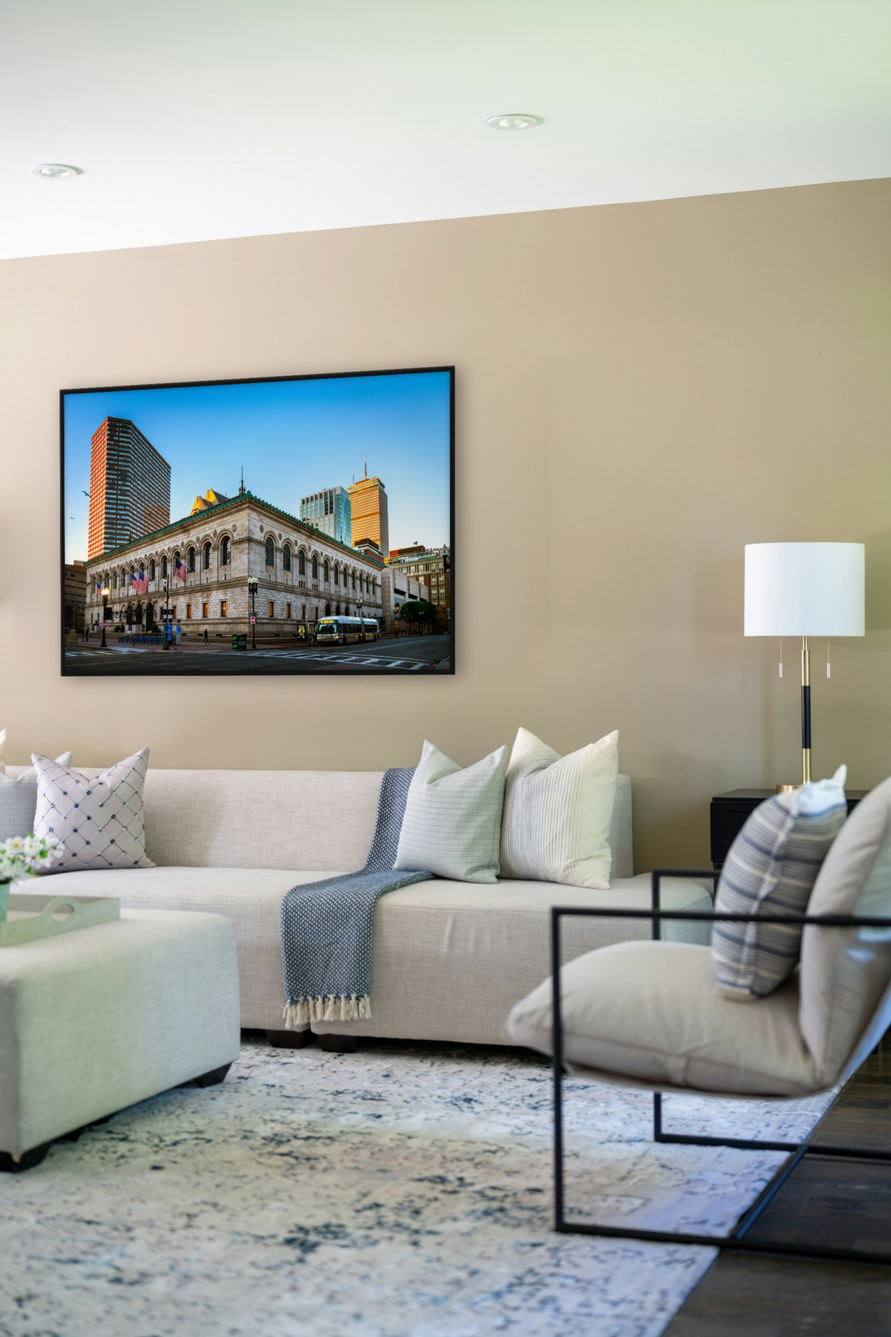
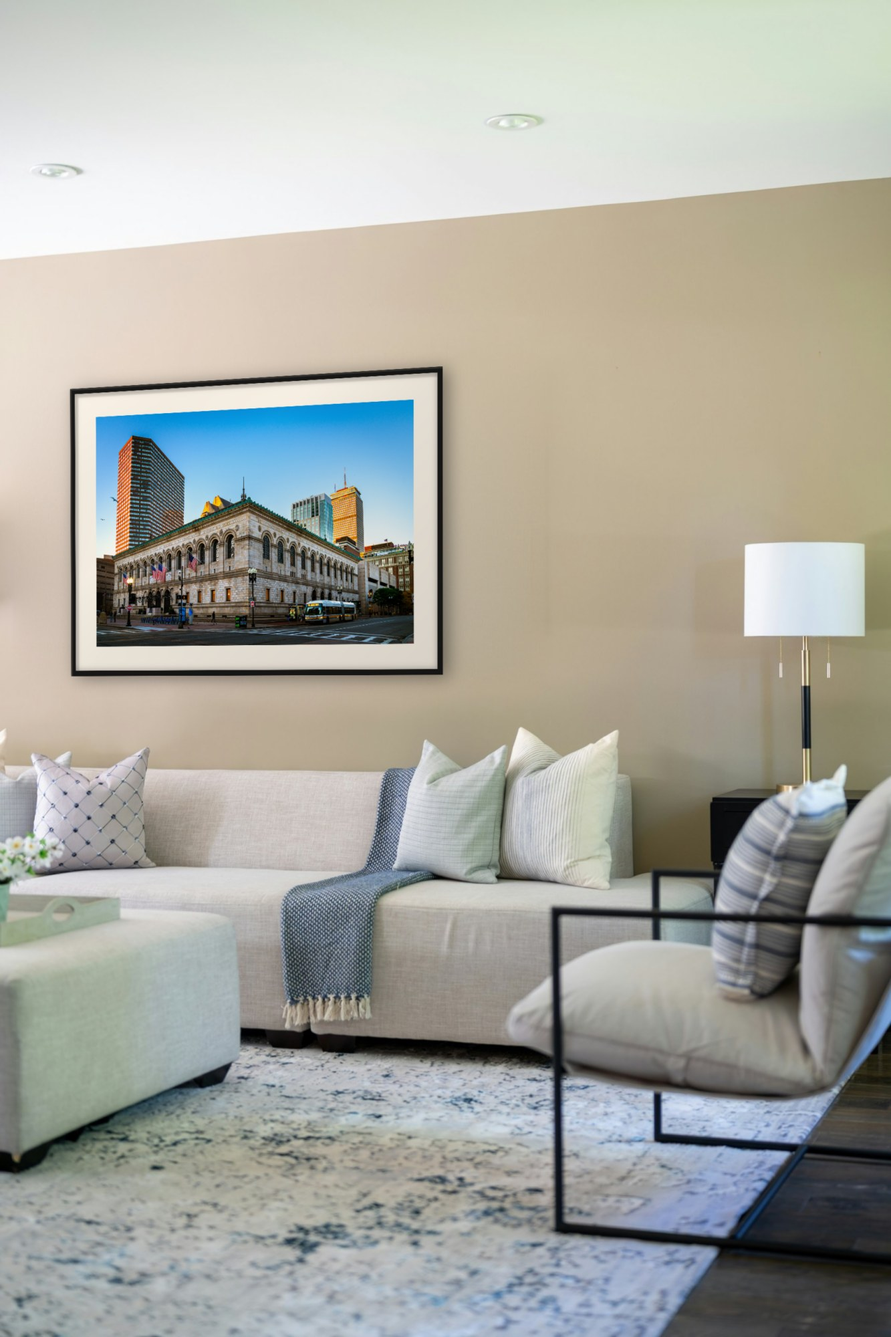
Room views: every framed view gets a white mat
Claude-Session: https://claude.ai/code/session_01MbwgoxaybNPLp1fp55gF6K

Changed region(s): [[0.0615, 0.248, 0.5229, 0.527]]

diff --git a/transient-serenity.html b/transient-serenity.html
@@ -28,7 +28,7 @@
   <div class="product-layout">
     <div class="product-gallery" style="--stage: 0.667">
       <figure class="zoom pg-main"><img src="images/DSC05015.jpg" alt="Transient Serenity — flowers on a wet sidewalk, Back Bay, Boston" srcset="images/sm/DSC05015.jpg 1200w, images/DSC05015.jpg 1706w" sizes="(max-width: 900px) 92vw, 46vw" decoding="async"></figure>
-      <div class="pg-thumbs" aria-label="More views"><button type="button" class="pg-thumb active" data-src="images/DSC05015.jpg" data-srcset="images/sm/DSC05015.jpg 1200w, images/DSC05015.jpg 1706w" aria-label="The print" aria-current="true"><img src="images/sm/DSC05015.jpg" alt="Transient Serenity — flowers on a wet sidewalk, Back Bay, Boston" decoding="async"></button><button type="button" class="pg-thumb" data-material="Canvas Print" data-src="images/mockups/transient-serenity-canvas-1.jpg?v=2" data-srcset="images/mockups/sm/transient-serenity-canvas-1.jpg?v=2 667w, images/mockups/transient-serenity-canvas-1.jpg?v=2 1333w" aria-label="Canvas — In a living room"><img src="images/mockups/sm/transient-serenity-canvas-1.jpg?v=2" alt="Transient Serenity — flowers on a wet sidewalk, Back Bay, Boston — canvas in a living room" decoding="async" loading="lazy"></button><button type="button" class="pg-thumb" data-material="Canvas Print" data-src="images/mockups/transient-serenity-canvas-2.jpg?v=2" data-srcset="images/mockups/sm/transient-serenity-canvas-2.jpg?v=2 1000w, images/mockups/transient-serenity-canvas-2.jpg?v=2 2000w" aria-label="Canvas — By a reading chair"><img src="images/mockups/sm/transient-serenity-canvas-2.jpg?v=2" alt="Transient Serenity — flowers on a wet sidewalk, Back Bay, Boston — canvas by a reading chair" decoding="async" loading="lazy"></button><button type="button" class="pg-thumb" data-material="Canvas Print" data-src="images/mockups/transient-serenity-canvas-3.jpg?v=2" data-srcset="images/mockups/sm/transient-serenity-canvas-3.jpg?v=2 667w, images/mockups/transient-serenity-canvas-3.jpg?v=2 1333w" aria-label="Canvas — Above a sofa"><img src="images/mockups/sm/transient-serenity-canvas-3.jpg?v=2" alt="Transient Serenity — flowers on a wet sidewalk, Back Bay, Boston — canvas above a sofa" decoding="async" loading="lazy"></button><button type="button" class="pg-thumb" data-material="Canvas Print" data-src="images/mockups/transient-serenity-canvas-4.jpg?v=2" data-srcset="images/mockups/sm/transient-serenity-canvas-4.jpg?v=2 667w, images/mockups/transient-serenity-canvas-4.jpg?v=2 1333w" aria-label="Canvas — On a bare wall"><img src="images/mockups/sm/transient-serenity-canvas-4.jpg?v=2" alt="Transient Serenity — flowers on a wet sidewalk, Back Bay, Boston — canvas on a bare wall" decoding="async" loading="lazy"></button><button type="button" class="pg-thumb" data-material="Framed Print" data-src="images/mockups/transient-serenity-1.jpg?v=2" data-srcset="images/mockups/sm/transient-serenity-1.jpg?v=2 667w, images/mockups/transient-serenity-1.jpg?v=2 1333w" aria-label="Framed — In a living room"><img src="images/mockups/sm/transient-serenity-1.jpg?v=2" alt="Transient Serenity — flowers on a wet sidewalk, Back Bay, Boston — in a living room" decoding="async" loading="lazy"></button><button type="button" class="pg-thumb" data-material="Framed Print" data-src="images/mockups/transient-serenity-2.jpg?v=2" data-srcset="images/mockups/sm/transient-serenity-2.jpg?v=2 1000w, images/mockups/transient-serenity-2.jpg?v=2 2000w" aria-label="Framed — By a reading chair"><img src="images/mockups/sm/transient-serenity-2.jpg?v=2" alt="Transient Serenity — flowers on a wet sidewalk, Back Bay, Boston — by a reading chair" decoding="async" loading="lazy"></button><button type="button" class="pg-thumb" data-material="Framed Print" data-src="images/mockups/transient-serenity-3.jpg?v=2" data-srcset="images/mockups/sm/transient-serenity-3.jpg?v=2 667w, images/mockups/transient-serenity-3.jpg?v=2 1333w" aria-label="Framed — Above a sofa"><img src="images/mockups/sm/transient-serenity-3.jpg?v=2" alt="Transient Serenity — flowers on a wet sidewalk, Back Bay, Boston — above a sofa" decoding="async" loading="lazy"></button><button type="button" class="pg-thumb" data-material="Framed Print" data-src="images/mockups/transient-serenity-4.jpg?v=2" data-srcset="images/mockups/sm/transient-serenity-4.jpg?v=2 667w, images/mockups/transient-serenity-4.jpg?v=2 1333w" aria-label="Framed — On a bare wall"><img src="images/mockups/sm/transient-serenity-4.jpg?v=2" alt="Transient Serenity — flowers on a wet sidewalk, Back Bay, Boston — on a bare wall" decoding="async" loading="lazy"></button></div>
+      <div class="pg-thumbs" aria-label="More views"><button type="button" class="pg-thumb active" data-src="images/DSC05015.jpg" data-srcset="images/sm/DSC05015.jpg 1200w, images/DSC05015.jpg 1706w" aria-label="The print" aria-current="true"><img src="images/sm/DSC05015.jpg" alt="Transient Serenity — flowers on a wet sidewalk, Back Bay, Boston" decoding="async"></button><button type="button" class="pg-thumb" data-material="Canvas Print" data-src="images/mockups/transient-serenity-canvas-1.jpg?v=2" data-srcset="images/mockups/sm/transient-serenity-canvas-1.jpg?v=2 667w, images/mockups/transient-serenity-canvas-1.jpg?v=2 1333w" aria-label="Canvas — In a living room"><img src="images/mockups/sm/transient-serenity-canvas-1.jpg?v=2" alt="Transient Serenity — flowers on a wet sidewalk, Back Bay, Boston — canvas in a living room" decoding="async" loading="lazy"></button><button type="button" class="pg-thumb" data-material="Canvas Print" data-src="images/mockups/transient-serenity-canvas-2.jpg?v=2" data-srcset="images/mockups/sm/transient-serenity-canvas-2.jpg?v=2 1000w, images/mockups/transient-serenity-canvas-2.jpg?v=2 2000w" aria-label="Canvas — By a reading chair"><img src="images/mockups/sm/transient-serenity-canvas-2.jpg?v=2" alt="Transient Serenity — flowers on a wet sidewalk, Back Bay, Boston — canvas by a reading chair" decoding="async" loading="lazy"></button><button type="button" class="pg-thumb" data-material="Canvas Print" data-src="images/mockups/transient-serenity-canvas-3.jpg?v=2" data-srcset="images/mockups/sm/transient-serenity-canvas-3.jpg?v=2 667w, images/mockups/transient-serenity-canvas-3.jpg?v=2 1333w" aria-label="Canvas — Above a sofa"><img src="images/mockups/sm/transient-serenity-canvas-3.jpg?v=2" alt="Transient Serenity — flowers on a wet sidewalk, Back Bay, Boston — canvas above a sofa" decoding="async" loading="lazy"></button><button type="button" class="pg-thumb" data-material="Canvas Print" data-src="images/mockups/transient-serenity-canvas-4.jpg?v=2" data-srcset="images/mockups/sm/transient-serenity-canvas-4.jpg?v=2 667w, images/mockups/transient-serenity-canvas-4.jpg?v=2 1333w" aria-label="Canvas — On a bare wall"><img src="images/mockups/sm/transient-serenity-canvas-4.jpg?v=2" alt="Transient Serenity — flowers on a wet sidewalk, Back Bay, Boston — canvas on a bare wall" decoding="async" loading="lazy"></button><button type="button" class="pg-thumb" data-material="Framed Print" data-src="images/mockups/transient-serenity-1.jpg?v=3" data-srcset="images/mockups/sm/transient-serenity-1.jpg?v=3 667w, images/mockups/transient-serenity-1.jpg?v=3 1333w" aria-label="Framed — In a living room"><img src="images/mockups/sm/transient-serenity-1.jpg?v=3" alt="Transient Serenity — flowers on a wet sidewalk, Back Bay, Boston — in a living room" decoding="async" loading="lazy"></button><button type="button" class="pg-thumb" data-material="Framed Print" data-src="images/mockups/transient-serenity-2.jpg?v=3" data-srcset="images/mockups/sm/transient-serenity-2.jpg?v=3 1000w, images/mockups/transient-serenity-2.jpg?v=3 2000w" aria-label="Framed — By a reading chair"><img src="images/mockups/sm/transient-serenity-2.jpg?v=3" alt="Transient Serenity — flowers on a wet sidewalk, Back Bay, Boston — by a reading chair" decoding="async" loading="lazy"></button><button type="button" class="pg-thumb" data-material="Framed Print" data-src="images/mockups/transient-serenity-3.jpg?v=3" data-srcset="images/mockups/sm/transient-serenity-3.jpg?v=3 667w, images/mockups/transient-serenity-3.jpg?v=3 1333w" aria-label="Framed — Above a sofa"><img src="images/mockups/sm/transient-serenity-3.jpg?v=3" alt="Transient Serenity — flowers on a wet sidewalk, Back Bay, Boston — above a sofa" decoding="async" loading="lazy"></button><button type="button" class="pg-thumb" data-material="Framed Print" data-src="images/mockups/transient-serenity-4.jpg?v=3" data-srcset="images/mockups/sm/transient-serenity-4.jpg?v=3 667w, images/mockups/transient-serenity-4.jpg?v=3 1333w" aria-label="Framed — On a bare wall"><img src="images/mockups/sm/transient-serenity-4.jpg?v=3" alt="Transient Serenity — flowers on a wet sidewalk, Back Bay, Boston — on a bare wall" decoding="async" loading="lazy"></button></div>
     </div>
     <div class="product-info" data-handle="transient-serenity">
       <div class="product-text">

diff --git a/boston-public-library.html b/boston-public-library.html
@@ -28,7 +28,7 @@
   <div class="product-layout wide">
     <div class="product-gallery">
       <figure class="zoom pg-main"><img src="images/DSC05012.jpg" alt="Boston Public Library at dawn, Copley Square" srcset="images/sm/DSC05012.jpg 1200w, images/DSC05012.jpg 2560w" sizes="92vw" decoding="async"></figure>
-      <div class="pg-thumbs" aria-label="More views"><button type="button" class="pg-thumb active" data-src="images/DSC05012.jpg" data-srcset="images/sm/DSC05012.jpg 1200w, images/DSC05012.jpg 2560w" aria-label="The print" aria-current="true"><img src="images/sm/DSC05012.jpg" alt="Boston Public Library at dawn, Copley Square" decoding="async"></button><button type="button" class="pg-thumb" data-material="Canvas Print" data-src="images/mockups/boston-public-library-canvas-1.jpg?v=2" data-srcset="images/mockups/sm/boston-public-library-canvas-1.jpg?v=2 667w, images/mockups/boston-public-library-canvas-1.jpg?v=2 1333w" aria-label="Canvas — In a living room"><img src="images/mockups/sm/boston-public-library-canvas-1.jpg?v=2" alt="Boston Public Library at dawn, Copley Square — canvas in a living room" decoding="async" loading="lazy"></button><button type="button" class="pg-thumb" data-material="Canvas Print" data-src="images/mockups/boston-public-library-canvas-2.jpg?v=2" data-srcset="images/mockups/sm/boston-public-library-canvas-2.jpg?v=2 1000w, images/mockups/boston-public-library-canvas-2.jpg?v=2 2000w" aria-label="Canvas — By a reading chair"><img src="images/mockups/sm/boston-public-library-canvas-2.jpg?v=2" alt="Boston Public Library at dawn, Copley Square — canvas by a reading chair" decoding="async" loading="lazy"></button><button type="button" class="pg-thumb" data-material="Canvas Print" data-src="images/mockups/boston-public-library-canvas-3.jpg?v=2" data-srcset="images/mockups/sm/boston-public-library-canvas-3.jpg?v=2 667w, images/mockups/boston-public-library-canvas-3.jpg?v=2 1333w" aria-label="Canvas — Above a sofa"><img src="images/mockups/sm/boston-public-library-canvas-3.jpg?v=2" alt="Boston Public Library at dawn, Copley Square — canvas above a sofa" decoding="async" loading="lazy"></button><button type="button" class="pg-thumb" data-material="Canvas Print" data-src="images/mockups/boston-public-library-canvas-4.jpg?v=2" data-srcset="images/mockups/sm/boston-public-library-canvas-4.jpg?v=2 667w, images/mockups/boston-public-library-canvas-4.jpg?v=2 1333w" aria-label="Canvas — On a bare wall"><img src="images/mockups/sm/boston-public-library-canvas-4.jpg?v=2" alt="Boston Public Library at dawn, Copley Square — canvas on a bare wall" decoding="async" loading="lazy"></button><button type="button" class="pg-thumb" data-material="Framed Print" data-src="images/mockups/boston-public-library-1.jpg?v=2" data-srcset="images/mockups/sm/boston-public-library-1.jpg?v=2 667w, images/mockups/boston-public-library-1.jpg?v=2 1333w" aria-label="Framed — In a living room"><img src="images/mockups/sm/boston-public-library-1.jpg?v=2" alt="Boston Public Library at dawn, Copley Square — in a living room" decoding="async" loading="lazy"></button><button type="button" class="pg-thumb" data-material="Framed Print" data-src="images/mockups/boston-public-library-2.jpg?v=2" data-srcset="images/mockups/sm/boston-public-library-2.jpg?v=2 1000w, images/mockups/boston-public-library-2.jpg?v=2 2000w" aria-label="Framed — By a reading chair"><img src="images/mockups/sm/boston-public-library-2.jpg?v=2" alt="Boston Public Library at dawn, Copley Square — by a reading chair" decoding="async" loading="lazy"></button><button type="button" class="pg-thumb" data-material="Framed Print" data-src="images/mockups/boston-public-library-3.jpg?v=2" data-srcset="images/mockups/sm/boston-public-library-3.jpg?v=2 667w, images/mockups/boston-public-library-3.jpg?v=2 1333w" aria-label="Framed — Above a sofa"><img src="images/mockups/sm/boston-public-library-3.jpg?v=2" alt="Boston Public Library at dawn, Copley Square — above a sofa" decoding="async" loading="lazy"></button><button type="button" class="pg-thumb" data-material="Framed Print" data-src="images/mockups/boston-public-library-4.jpg?v=2" data-srcset="images/mockups/sm/boston-public-library-4.jpg?v=2 667w, images/mockups/boston-public-library-4.jpg?v=2 1333w" aria-label="Framed — On a bare wall"><img src="images/mockups/sm/boston-public-library-4.jpg?v=2" alt="Boston Public Library at dawn, Copley Square — on a bare wall" decoding="async" loading="lazy"></button></div>
+      <div class="pg-thumbs" aria-label="More views"><button type="button" class="pg-thumb active" data-src="images/DSC05012.jpg" data-srcset="images/sm/DSC05012.jpg 1200w, images/DSC05012.jpg 2560w" aria-label="The print" aria-current="true"><img src="images/sm/DSC05012.jpg" alt="Boston Public Library at dawn, Copley Square" decoding="async"></button><button type="button" class="pg-thumb" data-material="Canvas Print" data-src="images/mockups/boston-public-library-canvas-1.jpg?v=2" data-srcset="images/mockups/sm/boston-public-library-canvas-1.jpg?v=2 667w, images/mockups/boston-public-library-canvas-1.jpg?v=2 1333w" aria-label="Canvas — In a living room"><img src="images/mockups/sm/boston-public-library-canvas-1.jpg?v=2" alt="Boston Public Library at dawn, Copley Square — canvas in a living room" decoding="async" loading="lazy"></button><button type="button" class="pg-thumb" data-material="Canvas Print" data-src="images/mockups/boston-public-library-canvas-2.jpg?v=2" data-srcset="images/mockups/sm/boston-public-library-canvas-2.jpg?v=2 1000w, images/mockups/boston-public-library-canvas-2.jpg?v=2 2000w" aria-label="Canvas — By a reading chair"><img src="images/mockups/sm/boston-public-library-canvas-2.jpg?v=2" alt="Boston Public Library at dawn, Copley Square — canvas by a reading chair" decoding="async" loading="lazy"></button><button type="button" class="pg-thumb" data-material="Canvas Print" data-src="images/mockups/boston-public-library-canvas-3.jpg?v=2" data-srcset="images/mockups/sm/boston-public-library-canvas-3.jpg?v=2 667w, images/mockups/boston-public-library-canvas-3.jpg?v=2 1333w" aria-label="Canvas — Above a sofa"><img src="images/mockups/sm/boston-public-library-canvas-3.jpg?v=2" alt="Boston Public Library at dawn, Copley Square — canvas above a sofa" decoding="async" loading="lazy"></button><button type="button" class="pg-thumb" data-material="Canvas Print" data-src="images/mockups/boston-public-library-canvas-4.jpg?v=2" data-srcset="images/mockups/sm/boston-public-library-canvas-4.jpg?v=2 667w, images/mockups/boston-public-library-canvas-4.jpg?v=2 1333w" aria-label="Canvas — On a bare wall"><img src="images/mockups/sm/boston-public-library-canvas-4.jpg?v=2" alt="Boston Public Library at dawn, Copley Square — canvas on a bare wall" decoding="async" loading="lazy"></button><button type="button" class="pg-thumb" data-material="Framed Print" data-src="images/mockups/boston-public-library-1.jpg?v=3" data-srcset="images/mockups/sm/boston-public-library-1.jpg?v=3 667w, images/mockups/boston-public-library-1.jpg?v=3 1333w" aria-label="Framed — In a living room"><img src="images/mockups/sm/boston-public-library-1.jpg?v=3" alt="Boston Public Library at dawn, Copley Square — in a living room" decoding="async" loading="lazy"></button><button type="button" class="pg-thumb" data-material="Framed Print" data-src="images/mockups/boston-public-library-2.jpg?v=3" data-srcset="images/mockups/sm/boston-public-library-2.jpg?v=3 1000w, images/mockups/boston-public-library-2.jpg?v=3 2000w" aria-label="Framed — By a reading chair"><img src="images/mockups/sm/boston-public-library-2.jpg?v=3" alt="Boston Public Library at dawn, Copley Square — by a reading chair" decoding="async" loading="lazy"></button><button type="button" class="pg-thumb" data-material="Framed Print" data-src="images/mockups/boston-public-library-3.jpg?v=3" data-srcset="images/mockups/sm/boston-public-library-3.jpg?v=3 667w, images/mockups/boston-public-library-3.jpg?v=3 1333w" aria-label="Framed — Above a sofa"><img src="images/mockups/sm/boston-public-library-3.jpg?v=3" alt="Boston Public Library at dawn, Copley Square — above a sofa" decoding="async" loading="lazy"></button><button type="button" class="pg-thumb" data-material="Framed Print" data-src="images/mockups/boston-public-library-4.jpg?v=3" data-srcset="images/mockups/sm/boston-public-library-4.jpg?v=3 667w, images/mockups/boston-public-library-4.jpg?v=3 1333w" aria-label="Framed — On a bare wall"><img src="images/mockups/sm/boston-public-library-4.jpg?v=3" alt="Boston Public Library at dawn, Copley Square — on a bare wall" decoding="async" loading="lazy"></button></div>
     </div>
     <div class="product-info" data-handle="boston-public-library">
       <div class="product-text">

diff --git a/tow-zone.html b/tow-zone.html
@@ -28,7 +28,7 @@
   <div class="product-layout">
     <div class="product-gallery" style="--stage: 0.667">
       <figure class="zoom pg-main"><img src="images/tow-zone.jpg?v=2" alt="Tow Zone — a pigeon landing at a bird feeder on a Boston street sign" srcset="images/sm/tow-zone.jpg?v=2 1200w, images/tow-zone.jpg?v=2 1707w" sizes="(max-width: 900px) 92vw, 46vw" decoding="async"></figure>
-      <div class="pg-thumbs" aria-label="More views"><button type="button" class="pg-thumb active" data-src="images/tow-zone.jpg?v=2" data-srcset="images/sm/tow-zone.jpg?v=2 1200w, images/tow-zone.jpg?v=2 1707w" aria-label="The print" aria-current="true"><img src="images/sm/tow-zone.jpg?v=2" alt="Tow Zone — a pigeon landing at a bird feeder on a Boston street sign" decoding="async"></button><button type="button" class="pg-thumb" data-material="Canvas Print" data-src="images/mockups/tow-zone-canvas-1.jpg?v=2" data-srcset="images/mockups/sm/tow-zone-canvas-1.jpg?v=2 667w, images/mockups/tow-zone-canvas-1.jpg?v=2 1333w" aria-label="Canvas — In a living room"><img src="images/mockups/sm/tow-zone-canvas-1.jpg?v=2" alt="Tow Zone — a pigeon landing at a bird feeder on a Boston street sign — canvas in a living room" decoding="async" loading="lazy"></button><button type="button" class="pg-thumb" data-material="Canvas Print" data-src="images/mockups/tow-zone-canvas-2.jpg?v=2" data-srcset="images/mockups/sm/tow-zone-canvas-2.jpg?v=2 1000w, images/mockups/tow-zone-canvas-2.jpg?v=2 2000w" aria-label="Canvas — By a reading chair"><img src="images/mockups/sm/tow-zone-canvas-2.jpg?v=2" alt="Tow Zone — a pigeon landing at a bird feeder on a Boston street sign — canvas by a reading chair" decoding="async" loading="lazy"></button><button type="button" class="pg-thumb" data-material="Canvas Print" data-src="images/mockups/tow-zone-canvas-3.jpg?v=2" data-srcset="images/mockups/sm/tow-zone-canvas-3.jpg?v=2 667w, images/mockups/tow-zone-canvas-3.jpg?v=2 1333w" aria-label="Canvas — Above a sofa"><img src="images/mockups/sm/tow-zone-canvas-3.jpg?v=2" alt="Tow Zone — a pigeon landing at a bird feeder on a Boston street sign — canvas above a sofa" decoding="async" loading="lazy"></button><button type="button" class="pg-thumb" data-material="Canvas Print" data-src="images/mockups/tow-zone-canvas-4.jpg?v=2" data-srcset="images/mockups/sm/tow-zone-canvas-4.jpg?v=2 667w, images/mockups/tow-zone-canvas-4.jpg?v=2 1333w" aria-label="Canvas — On a bare wall"><img src="images/mockups/sm/tow-zone-canvas-4.jpg?v=2" alt="Tow Zone — a pigeon landing at a bird feeder on a Boston street sign — canvas on a bare wall" decoding="async" loading="lazy"></button><button type="button" class="pg-thumb" data-material="Framed Print" data-src="images/mockups/tow-zone-1.jpg?v=2" data-srcset="images/mockups/sm/tow-zone-1.jpg?v=2 667w, images/mockups/tow-zone-1.jpg?v=2 1333w" aria-label="Framed — In a living room"><img src="images/mockups/sm/tow-zone-1.jpg?v=2" alt="Tow Zone — a pigeon landing at a bird feeder on a Boston street sign — in a living room" decoding="async" loading="lazy"></button><button type="button" class="pg-thumb" data-material="Framed Print" data-src="images/mockups/tow-zone-2.jpg?v=2" data-srcset="images/mockups/sm/tow-zone-2.jpg?v=2 1000w, images/mockups/tow-zone-2.jpg?v=2 2000w" aria-label="Framed — By a reading chair"><img src="images/mockups/sm/tow-zone-2.jpg?v=2" alt="Tow Zone — a pigeon landing at a bird feeder on a Boston street sign — by a reading chair" decoding="async" loading="lazy"></button><button type="button" class="pg-thumb" data-material="Framed Print" data-src="images/mockups/tow-zone-3.jpg?v=2" data-srcset="images/mockups/sm/tow-zone-3.jpg?v=2 667w, images/mockups/tow-zone-3.jpg?v=2 1333w" aria-label="Framed — Above a sofa"><img src="images/mockups/sm/tow-zone-3.jpg?v=2" alt="Tow Zone — a pigeon landing at a bird feeder on a Boston street sign — above a sofa" decoding="async" loading="lazy"></button><button type="button" class="pg-thumb" data-material="Framed Print" data-src="images/mockups/tow-zone-4.jpg?v=2" data-srcset="images/mockups/sm/tow-zone-4.jpg?v=2 667w, images/mockups/tow-zone-4.jpg?v=2 1333w" aria-label="Framed — On a bare wall"><img src="images/mockups/sm/tow-zone-4.jpg?v=2" alt="Tow Zone — a pigeon landing at a bird feeder on a Boston street sign — on a bare wall" decoding="async" loading="lazy"></button></div>
+      <div class="pg-thumbs" aria-label="More views"><button type="button" class="pg-thumb active" data-src="images/tow-zone.jpg?v=2" data-srcset="images/sm/tow-zone.jpg?v=2 1200w, images/tow-zone.jpg?v=2 1707w" aria-label="The print" aria-current="true"><img src="images/sm/tow-zone.jpg?v=2" alt="Tow Zone — a pigeon landing at a bird feeder on a Boston street sign" decoding="async"></button><button type="button" class="pg-thumb" data-material="Canvas Print" data-src="images/mockups/tow-zone-canvas-1.jpg?v=2" data-srcset="images/mockups/sm/tow-zone-canvas-1.jpg?v=2 667w, images/mockups/tow-zone-canvas-1.jpg?v=2 1333w" aria-label="Canvas — In a living room"><img src="images/mockups/sm/tow-zone-canvas-1.jpg?v=2" alt="Tow Zone — a pigeon landing at a bird feeder on a Boston street sign — canvas in a living room" decoding="async" loading="lazy"></button><button type="button" class="pg-thumb" data-material="Canvas Print" data-src="images/mockups/tow-zone-canvas-2.jpg?v=2" data-srcset="images/mockups/sm/tow-zone-canvas-2.jpg?v=2 1000w, images/mockups/tow-zone-canvas-2.jpg?v=2 2000w" aria-label="Canvas — By a reading chair"><img src="images/mockups/sm/tow-zone-canvas-2.jpg?v=2" alt="Tow Zone — a pigeon landing at a bird feeder on a Boston street sign — canvas by a reading chair" decoding="async" loading="lazy"></button><button type="button" class="pg-thumb" data-material="Canvas Print" data-src="images/mockups/tow-zone-canvas-3.jpg?v=2" data-srcset="images/mockups/sm/tow-zone-canvas-3.jpg?v=2 667w, images/mockups/tow-zone-canvas-3.jpg?v=2 1333w" aria-label="Canvas — Above a sofa"><img src="images/mockups/sm/tow-zone-canvas-3.jpg?v=2" alt="Tow Zone — a pigeon landing at a bird feeder on a Boston street sign — canvas above a sofa" decoding="async" loading="lazy"></button><button type="button" class="pg-thumb" data-material="Canvas Print" data-src="images/mockups/tow-zone-canvas-4.jpg?v=2" data-srcset="images/mockups/sm/tow-zone-canvas-4.jpg?v=2 667w, images/mockups/tow-zone-canvas-4.jpg?v=2 1333w" aria-label="Canvas — On a bare wall"><img src="images/mockups/sm/tow-zone-canvas-4.jpg?v=2" alt="Tow Zone — a pigeon landing at a bird feeder on a Boston street sign — canvas on a bare wall" decoding="async" loading="lazy"></button><button type="button" class="pg-thumb" data-material="Framed Print" data-src="images/mockups/tow-zone-1.jpg?v=3" data-srcset="images/mockups/sm/tow-zone-1.jpg?v=3 667w, images/mockups/tow-zone-1.jpg?v=3 1333w" aria-label="Framed — In a living room"><img src="images/mockups/sm/tow-zone-1.jpg?v=3" alt="Tow Zone — a pigeon landing at a bird feeder on a Boston street sign — in a living room" decoding="async" loading="lazy"></button><button type="button" class="pg-thumb" data-material="Framed Print" data-src="images/mockups/tow-zone-2.jpg?v=3" data-srcset="images/mockups/sm/tow-zone-2.jpg?v=3 1000w, images/mockups/tow-zone-2.jpg?v=3 2000w" aria-label="Framed — By a reading chair"><img src="images/mockups/sm/tow-zone-2.jpg?v=3" alt="Tow Zone — a pigeon landing at a bird feeder on a Boston street sign — by a reading chair" decoding="async" loading="lazy"></button><button type="button" class="pg-thumb" data-material="Framed Print" data-src="images/mockups/tow-zone-3.jpg?v=3" data-srcset="images/mockups/sm/tow-zone-3.jpg?v=3 667w, images/mockups/tow-zone-3.jpg?v=3 1333w" aria-label="Framed — Above a sofa"><img src="images/mockups/sm/tow-zone-3.jpg?v=3" alt="Tow Zone — a pigeon landing at a bird feeder on a Boston street sign — above a sofa" decoding="async" loading="lazy"></button><button type="button" class="pg-thumb" data-material="Framed Print" data-src="images/mockups/tow-zone-4.jpg?v=3" data-srcset="images/mockups/sm/tow-zone-4.jpg?v=3 667w, images/mockups/tow-zone-4.jpg?v=3 1333w" aria-label="Framed — On a bare wall"><img src="images/mockups/sm/tow-zone-4.jpg?v=3" alt="Tow Zone — a pigeon landing at a bird feeder on a Boston street sign — on a bare wall" decoding="async" loading="lazy"></button></div>
     </div>
     <div class="product-info" data-handle="tow-zone">
       <div class="product-text">

diff --git a/fenway-park.html b/fenway-park.html
@@ -28,7 +28,7 @@
   <div class="product-layout wide">
     <div class="product-gallery">
       <figure class="zoom pg-main"><img src="images/DSC04873.jpg" alt="Fenway Park on game day, Boston" srcset="images/sm/DSC04873.jpg 1200w, images/DSC04873.jpg 2560w" sizes="92vw" decoding="async"></figure>
-      <div class="pg-thumbs" aria-label="More views"><button type="button" class="pg-thumb active" data-src="images/DSC04873.jpg" data-srcset="images/sm/DSC04873.jpg 1200w, images/DSC04873.jpg 2560w" aria-label="The print" aria-current="true"><img src="images/sm/DSC04873.jpg" alt="Fenway Park on game day, Boston" decoding="async"></button><button type="button" class="pg-thumb" data-material="Canvas Print" data-src="images/mockups/fenway-park-canvas-1.jpg?v=2" data-srcset="images/mockups/sm/fenway-park-canvas-1.jpg?v=2 667w, images/mockups/fenway-park-canvas-1.jpg?v=2 1333w" aria-label="Canvas — In a living room"><img src="images/mockups/sm/fenway-park-canvas-1.jpg?v=2" alt="Fenway Park on game day, Boston — canvas in a living room" decoding="async" loading="lazy"></button><button type="button" class="pg-thumb" data-material="Canvas Print" data-src="images/mockups/fenway-park-canvas-2.jpg?v=2" data-srcset="images/mockups/sm/fenway-park-canvas-2.jpg?v=2 1000w, images/mockups/fenway-park-canvas-2.jpg?v=2 2000w" aria-label="Canvas — By a reading chair"><img src="images/mockups/sm/fenway-park-canvas-2.jpg?v=2" alt="Fenway Park on game day, Boston — canvas by a reading chair" decoding="async" loading="lazy"></button><button type="button" class="pg-thumb" data-material="Canvas Print" data-src="images/mockups/fenway-park-canvas-3.jpg?v=2" data-srcset="images/mockups/sm/fenway-park-canvas-3.jpg?v=2 667w, images/mockups/fenway-park-canvas-3.jpg?v=2 1333w" aria-label="Canvas — Above a sofa"><img src="images/mockups/sm/fenway-park-canvas-3.jpg?v=2" alt="Fenway Park on game day, Boston — canvas above a sofa" decoding="async" loading="lazy"></button><button type="button" class="pg-thumb" data-material="Canvas Print" data-src="images/mockups/fenway-park-canvas-4.jpg?v=2" data-srcset="images/mockups/sm/fenway-park-canvas-4.jpg?v=2 667w, images/mockups/fenway-park-canvas-4.jpg?v=2 1333w" aria-label="Canvas — On a bare wall"><img src="images/mockups/sm/fenway-park-canvas-4.jpg?v=2" alt="Fenway Park on game day, Boston — canvas on a bare wall" decoding="async" loading="lazy"></button><button type="button" class="pg-thumb" data-material="Framed Print" data-src="images/mockups/fenway-park-1.jpg?v=2" data-srcset="images/mockups/sm/fenway-park-1.jpg?v=2 667w, images/mockups/fenway-park-1.jpg?v=2 1333w" aria-label="Framed — In a living room"><img src="images/mockups/sm/fenway-park-1.jpg?v=2" alt="Fenway Park on game day, Boston — in a living room" decoding="async" loading="lazy"></button><button type="button" class="pg-thumb" data-material="Framed Print" data-src="images/mockups/fenway-park-2.jpg?v=2" data-srcset="images/mockups/sm/fenway-park-2.jpg?v=2 1000w, images/mockups/fenway-park-2.jpg?v=2 2000w" aria-label="Framed — By a reading chair"><img src="images/mockups/sm/fenway-park-2.jpg?v=2" alt="Fenway Park on game day, Boston — by a reading chair" decoding="async" loading="lazy"></button><button type="button" class="pg-thumb" data-material="Framed Print" data-src="images/mockups/fenway-park-3.jpg?v=2" data-srcset="images/mockups/sm/fenway-park-3.jpg?v=2 667w, images/mockups/fenway-park-3.jpg?v=2 1333w" aria-label="Framed — Above a sofa"><img src="images/mockups/sm/fenway-park-3.jpg?v=2" alt="Fenway Park on game day, Boston — above a sofa" decoding="async" loading="lazy"></button><button type="button" class="pg-thumb" data-material="Framed Print" data-src="images/mockups/fenway-park-4.jpg?v=2" data-srcset="images/mockups/sm/fenway-park-4.jpg?v=2 667w, images/mockups/fenway-park-4.jpg?v=2 1333w" aria-label="Framed — On a bare wall"><img src="images/mockups/sm/fenway-park-4.jpg?v=2" alt="Fenway Park on game day, Boston — on a bare wall" decoding="async" loading="lazy"></button></div>
+      <div class="pg-thumbs" aria-label="More views"><button type="button" class="pg-thumb active" data-src="images/DSC04873.jpg" data-srcset="images/sm/DSC04873.jpg 1200w, images/DSC04873.jpg 2560w" aria-label="The print" aria-current="true"><img src="images/sm/DSC04873.jpg" alt="Fenway Park on game day, Boston" decoding="async"></button><button type="button" class="pg-thumb" data-material="Canvas Print" data-src="images/mockups/fenway-park-canvas-1.jpg?v=2" data-srcset="images/mockups/sm/fenway-park-canvas-1.jpg?v=2 667w, images/mockups/fenway-park-canvas-1.jpg?v=2 1333w" aria-label="Canvas — In a living room"><img src="images/mockups/sm/fenway-park-canvas-1.jpg?v=2" alt="Fenway Park on game day, Boston — canvas in a living room" decoding="async" loading="lazy"></button><button type="button" class="pg-thumb" data-material="Canvas Print" data-src="images/mockups/fenway-park-canvas-2.jpg?v=2" data-srcset="images/mockups/sm/fenway-park-canvas-2.jpg?v=2 1000w, images/mockups/fenway-park-canvas-2.jpg?v=2 2000w" aria-label="Canvas — By a reading chair"><img src="images/mockups/sm/fenway-park-canvas-2.jpg?v=2" alt="Fenway Park on game day, Boston — canvas by a reading chair" decoding="async" loading="lazy"></button><button type="button" class="pg-thumb" data-material="Canvas Print" data-src="images/mockups/fenway-park-canvas-3.jpg?v=2" data-srcset="images/mockups/sm/fenway-park-canvas-3.jpg?v=2 667w, images/mockups/fenway-park-canvas-3.jpg?v=2 1333w" aria-label="Canvas — Above a sofa"><img src="images/mockups/sm/fenway-park-canvas-3.jpg?v=2" alt="Fenway Park on game day, Boston — canvas above a sofa" decoding="async" loading="lazy"></button><button type="button" class="pg-thumb" data-material="Canvas Print" data-src="images/mockups/fenway-park-canvas-4.jpg?v=2" data-srcset="images/mockups/sm/fenway-park-canvas-4.jpg?v=2 667w, images/mockups/fenway-park-canvas-4.jpg?v=2 1333w" aria-label="Canvas — On a bare wall"><img src="images/mockups/sm/fenway-park-canvas-4.jpg?v=2" alt="Fenway Park on game day, Boston — canvas on a bare wall" decoding="async" loading="lazy"></button><button type="button" class="pg-thumb" data-material="Framed Print" data-src="images/mockups/fenway-park-1.jpg?v=3" data-srcset="images/mockups/sm/fenway-park-1.jpg?v=3 667w, images/mockups/fenway-park-1.jpg?v=3 1333w" aria-label="Framed — In a living room"><img src="images/mockups/sm/fenway-park-1.jpg?v=3" alt="Fenway Park on game day, Boston — in a living room" decoding="async" loading="lazy"></button><button type="button" class="pg-thumb" data-material="Framed Print" data-src="images/mockups/fenway-park-2.jpg?v=3" data-srcset="images/mockups/sm/fenway-park-2.jpg?v=3 1000w, images/mockups/fenway-park-2.jpg?v=3 2000w" aria-label="Framed — By a reading chair"><img src="images/mockups/sm/fenway-park-2.jpg?v=3" alt="Fenway Park on game day, Boston — by a reading chair" decoding="async" loading="lazy"></button><button type="button" class="pg-thumb" data-material="Framed Print" data-src="images/mockups/fenway-park-3.jpg?v=3" data-srcset="images/mockups/sm/fenway-park-3.jpg?v=3 667w, images/mockups/fenway-park-3.jpg?v=3 1333w" aria-label="Framed — Above a sofa"><img src="images/mockups/sm/fenway-park-3.jpg?v=3" alt="Fenway Park on game day, Boston — above a sofa" decoding="async" loading="lazy"></button><button type="button" class="pg-thumb" data-material="Framed Print" data-src="images/mockups/fenway-park-4.jpg?v=3" data-srcset="images/mockups/sm/fenway-park-4.jpg?v=3 667w, images/mockups/fenway-park-4.jpg?v=3 1333w" aria-label="Framed — On a bare wall"><img src="images/mockups/sm/fenway-park-4.jpg?v=3" alt="Fenway Park on game day, Boston — on a bare wall" decoding="async" loading="lazy"></button></div>
     </div>
     <div class="product-info" data-handle="fenway-park">
       <div class="product-text">

diff --git a/tools/roomviews.py b/tools/roomviews.py
@@ -21,7 +21,7 @@ ROOMS = [
         file="room0.jpg",
         erase=[[(30, 745), (1045, 695), (1045, 1310), (30, 1310)]], donor=(1060, 760, 1420, 1320),
         plane_rect=(2.0, 1.0), plane_quad=[(71, 790), (928, 741), (928, 1240), (73, 1248)],
-        hang=dict(cx=1.0, cy=0.52, maxw=2.15, maxh=1.2), frame="black", light=(1, 0.4)),
+        hang=dict(cx=1.0, cy=0.52, maxw=2.15, maxh=1.2), frame="black-mat", light=(1, 0.4)),
     dict(  # white living room, yellow armchair, black frame + mat
         file="room1.jpg",
         erase=[[(1160, 372), (1684, 372), (1684, 1078), (1160, 1078)]], donor=(700, 700, 1140, 1120),
@@ -36,7 +36,7 @@ ROOMS = [
         file="room3.jpg",
         erase=[],
         plane_rect=(1717, 2576), plane_quad=[(0, 0), (1717, 0), (1717, 2576), (0, 2576)],
-        hang=dict(cx=900, cy=800, maxw=1150, maxh=900), frame="black", light=(1, 0.5)),
+        hang=dict(cx=900, cy=800, maxw=1150, maxh=900), frame="black-mat", light=(1, 0.5)),
 ]
 
 def _pushpull(img, known):

diff --git a/CLAUDE.md b/CLAUDE.md
@@ -46,7 +46,7 @@ The owner tried a headless Shopify setup (modelled on skypathstudio.com) but dro
 - There is no returns/refunds page (the owner had one made, then asked to delete it).
 - New product: add it to `PRODUCTS` in the catalog, upload its print file to R2, copy `transient-serenity.html` (portrait) or `boston-public-library.html` (landscape) to `<handle>.html`, set `data-handle`, title, photo, description, room-view thumbnails and option buttons, add a `.product-card` to `shop.html` and a sitemap line, then run the test.
 - Product page layout: `.product-info` holds `.product-text` (h1 + desc) and `.buy-box` (options, price, Add to Cart, notes). Landscape/panorama photos (width/height ≥ 1.25; `js/main.js` sets `.product-layout.wide`, also written in the HTML to avoid a flash) go full width on top with text and buy-box below in two columns (image `sizes="92vw"`); portrait/square photos sit left of the text and are capped at the window height so the whole print shows without scrolling.
-- Product gallery: each product page has `.product-gallery` = `figure.zoom.pg-main` + `.pg-thumbs` (buttons with `data-src`/`data-srcset`): the print, then room views of the print on a wall (the owner wants at least three, photo-realistic — NOT illustrations; the drawn ones from `tools/mockups.js` were rejected and removed). Room views are made by `python3 tools/roomviews.py images/NAME.jpg HANDLE` from the owner's free-licence room photos in `tools/rooms/room0-3.jpg` (old artwork erased and wall refilled with real wall texture, the print framed per room — all black frames (owner's choice): thin black / black+mat / black+mat / thin black — warped to the wall's perspective, shadowed and matched to the room light) → `images/mockups/HANDLE-1..4.jpg` (long edge 2000) + `sm/` (1000); then add one `.pg-thumb` per view. Each print has two sets: framed views `HANDLE-1..4` (`data-material="Framed Print"`) and gallery-wrapped canvas views `HANDLE-canvas-1..4` from `roomviews.py … --canvas` (`data-material="Canvas Print"`; no frame, wrapped edge on the side the camera sees, deeper shadow). `data-material` must equal the option's `data-value`: only the chosen material's views are shown (plus the plain print, which has no data-material), and clicking a material jumps the main picture to its first room view; arrows, keys, swipe and the lightbox only step through the shown thumbs. New room photos can only come from the owner (this workspace cannot download from stock sites); add each to `ROOMS` in the script with its erase quads, wall-plane quad, hanging box and frame style. The main picture sits in a fixed-size stage (`--stage` = the print's aspect ratio, set by js/main.js) so switching views never resizes the page; every picture (print and room views, main and thumbnails) is shown whole with `object-fit: contain` — the owner does not want anything cropped. Portrait prints on computer: three columns — picture, then a vertical column of thumbnails right beside it spanning the picture's height, then the text/buying (`.product-gallery` is `display: contents` there; this is the layout the owner drew); phones and landscape prints: thumbnails in a row below. With only one thumb the strip is hidden. Thumbnails switch the main picture, ‹ › arrows on the main picture (`.pg-arrow`, added by js/main.js; shown on hover on computers, always on phones) step through the views, so do the keyboard ← → keys (ignored while the lightbox, cart or menu is open), swipe works on phones, and the lightbox browses all of them.
+- Product gallery: each product page has `.product-gallery` = `figure.zoom.pg-main` + `.pg-thumbs` (buttons with `data-src`/`data-srcset`): the print, then room views of the print on a wall (the owner wants at least three, photo-realistic — NOT illustrations; the drawn ones from `tools/mockups.js` were rejected and removed). Room views are made by `python3 tools/roomviews.py images/NAME.jpg HANDLE` from the owner's free-licence room photos in `tools/rooms/room0-3.jpg` (old artwork erased and wall refilled with real wall texture, the print framed per room — every framed view is a black frame with a white mat (owner's choice; the Prodigi CFPM SKU includes a mount) — warped to the wall's perspective, shadowed and matched to the room light) → `images/mockups/HANDLE-1..4.jpg` (long edge 2000) + `sm/` (1000); then add one `.pg-thumb` per view. Each print has two sets: framed views `HANDLE-1..4` (`data-material="Framed Print"`) and gallery-wrapped canvas views `HANDLE-canvas-1..4` from `roomviews.py … --canvas` (`data-material="Canvas Print"`; no frame, wrapped edge on the side the camera sees, deeper shadow). `data-material` must equal the option's `data-value`: only the chosen material's views are shown (plus the plain print, which has no data-material), and clicking a material jumps the main picture to its first room view; arrows, keys, swipe and the lightbox only step through the shown thumbs. New room photos can only come from the owner (this workspace cannot download from stock sites); add each to `ROOMS` in the script with its erase quads, wall-plane quad, hanging box and frame style. The main picture sits in a fixed-size stage (`--stage` = the print's aspect ratio, set by js/main.js) so switching views never resizes the page; every picture (print and room views, main and thumbnails) is shown whole with `object-fit: contain` — the owner does not want anything cropped. Portrait prints on computer: three columns — picture, then a vertical column of thumbnails right beside it spanning the picture's height, then the text/buying (`.product-gallery` is `display: contents` there; this is the layout the owner drew); phones and landscape prints: thumbnails in a row below. With only one thumb the strip is hidden. Thumbnails switch the main picture, ‹ › arrows on the main picture (`.pg-arrow`, added by js/main.js; shown on hover on computers, always on phones) step through the views, so do the keyboard ← → keys (ignored while the lightbox, cart or menu is open), swipe works on phones, and the lightbox browses all of them.
 
 ## Commits
 After any change to `css/` or `js/`, run `python3 tools/stamp_assets.py` before committing: it puts a content hash on every `css/style.css`, `js/main.js` and `js/config.js` link (`?v=…`). The billlinphotos.com zone forces a 4-hour browser cache on CSS/JS, so without a new `?v=` visitors keep the old files. New pages must use the same links (copy them from an existing page, then re-run the script).
